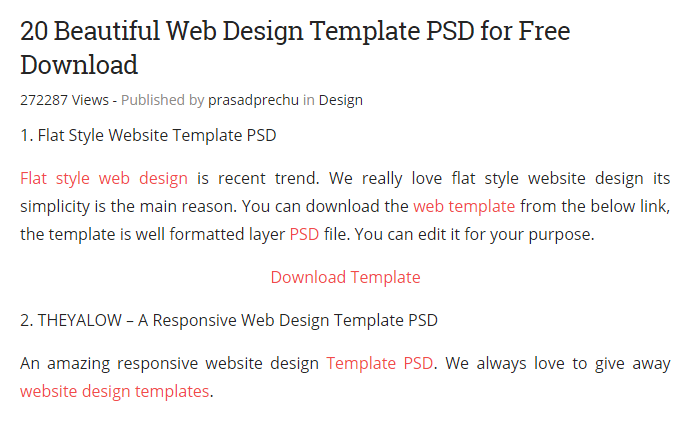
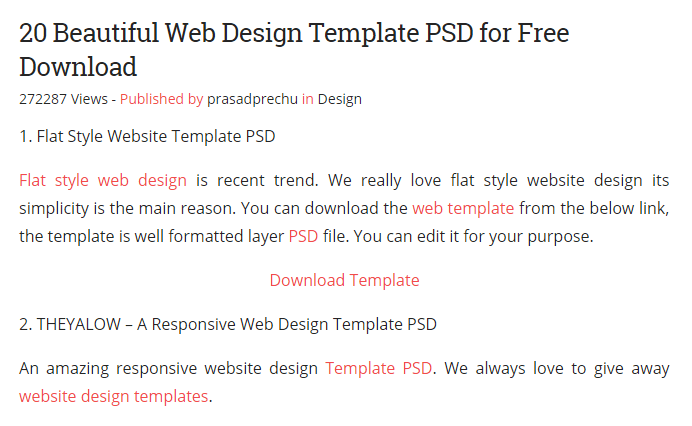
#6 ДЗ_9 Александра исправлены ошибки

diff --git a/aleksandra/13122014dz9/index.html b/aleksandra/13122014dz9/index.html
@@ -6,14 +6,16 @@
 	<link rel="stylesheet" type="text/css" href="css/style.css">
 </head>
 <body>
-	<div>
+	<div class="content">
     	<h1>20 Beautiful Web Design Template PSD for Free Download</h1>
-    	<p class="class1">272287 Views - <span class="span1"> Published by</span> prasadprechu <span class="span1">in</span> Design</p>          
-    	<p class="class2">1. Flat Style Website Template PSD</p>
-    	<p><span class="span2">Flat style web design</span> is recent trend. We really love flat style website design its simplicity is the main reason. You can download the <span class="span2">web template</span> from the below link, the template is well formatted layer <span class="span2">PSD</span> file. You can edit it for your purpose.</p>
-    	<p class="center">Download Template</p>
-    	<p>2. THEYALOW – A Responsive Web Design Template PSD</p>
-      	<p>An amazing responsive website design <span class="span2">Template PSD</span>. We always love to give away <span class="span2">website design templates</span>.</p>
+        <p class="subtitle">272287 Views - <span class="span"> Published by</span> prasadprechu <span class="span">in</span> Design</p>
+        <section>
+            <p class="style_website">1. Flat Style Website Template PSD</p>
+            <p><span class="span">Flat style web design</span> is recent trend. We really love flat style website design its simplicity is the main reason. You can download the <span class="span">web template</span> from the below link, the template is well formatted layer <span class="span">PSD</span> file. You can edit it for your purpose.</p>
+            <p class="download">Download Template</p>
+            <p>2. THEYALOW – A Responsive Web Design Template PSD</p>
+      	    <p>An amazing responsive website design <span class="span">Template PSD</span>. We always love to give away <span class="span">website design templates</span>.</p>
+        </section>
 	</div>
 </body>
 </html>

diff --git a/aleksandra/13122014dz9/css/style.css b/aleksandra/13122014dz9/css/style.css
@@ -7,51 +7,45 @@
 }
 
 body {
-  width:651px;
+  width: 651px;
+  font: 400 16px 'Open Sans';
   padding: 26px 41px 9px 67px;
   color: #252525;
 }
 
 h1 {
-  font-family: 'Roboto Slab';
-  font-weight: 400;
-  font-size: 26px;
+  font: 400 26px 'Roboto Slab';
 	letter-spacing: -0.7px;
 }
 
-.class1 {
-  font-family: 'Open Sans';
-  font-weight: 400;
+.subtitle {
   font-size: 14px;
-  padding-top: 5px;
+  padding-top: 2px;
 }
 
-.class2 {
-  font-family: 'Open Sans';
-  font-weight: 400;
-  font-size: 16px;
-  padding-top: 7px;
+.style_website {
+  padding-top: 9px;
 }
 
 p {
-  font-family: 'Open Sans';
-  font-weight: 400;
-  font-size: 16px;
   text-align: justify;
   line-height: 28px;
-  padding-top: 15px;
-  color: #252525;
+  padding-top: 16px;
 }
 
-.span1 {
+
+.span {
   color: #8f8c89;
 }
 
-.span2 {
+.download {
   color: #f24b4b;
 }
 
-.center {
-  text-align: center;
+.span, .download {
   color: #f24b4b;
+}
+
+.download {
+  text-align: center;
 }
